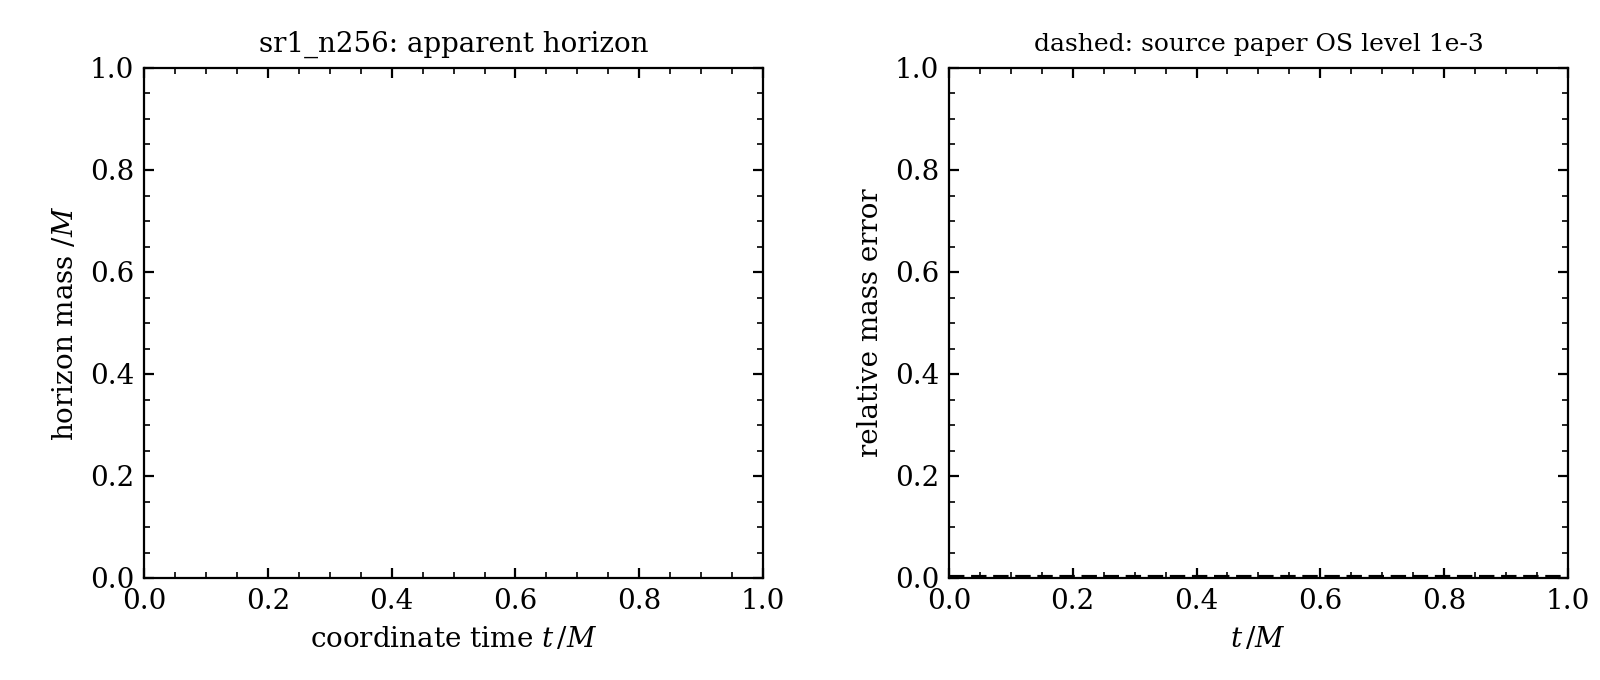
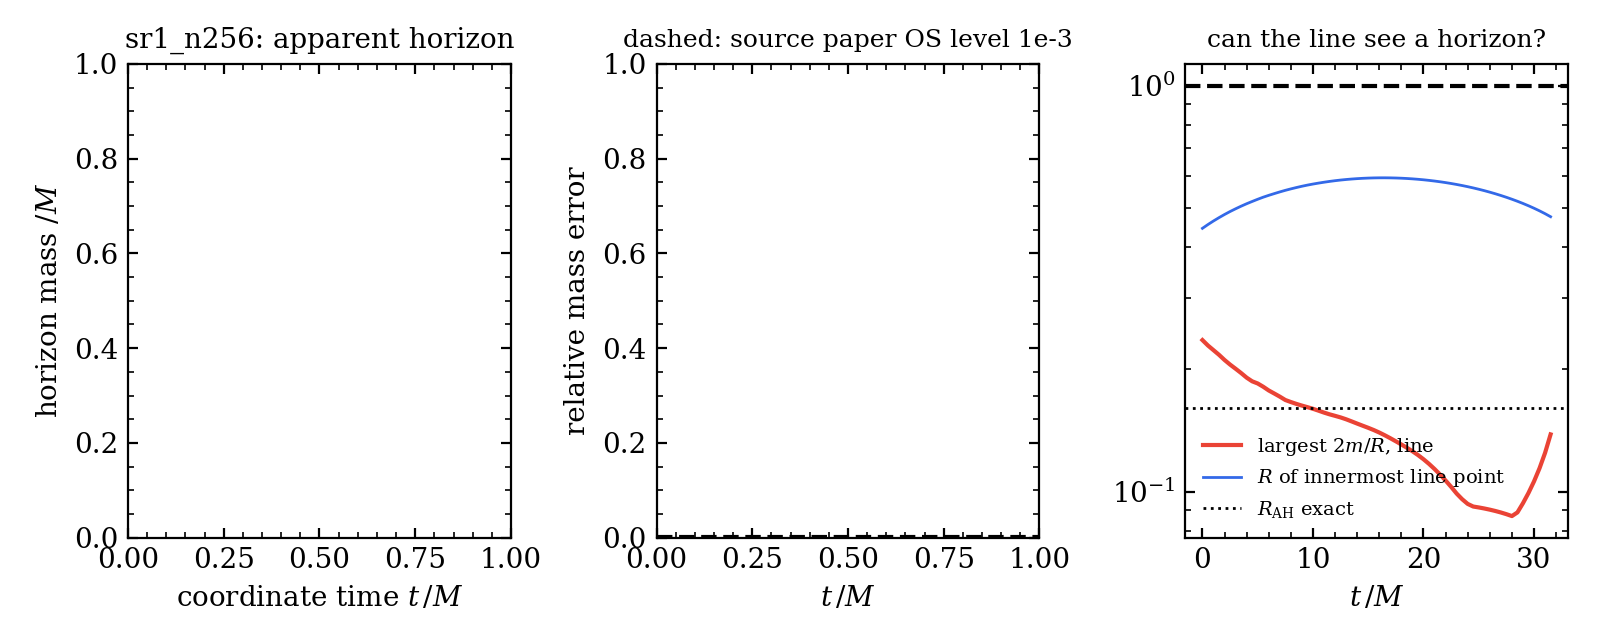
runs_ball: SR-1 unstable at t = 33 (core edge), SR-2 lapse pulse at t ~ 6 and no resolvable horizon at dx = M/2; turnaround within 0.3 per cent
Runs A-emd-pbh-20261115-153843-7172b66, -153845-7172b66, -155056-ec1b816;
analysis A-emd-pbh-20261115-163659-4dbacd0.

Claude-Session: https://claude.ai/code/session_01VD79cUYemmpt27M8dtYPfW

diff --git a/tracks/A-emd-pbh/runs_ball/prep.py b/tracks/A-emd-pbh/runs_ball/prep.py
@@ -54,12 +54,21 @@ def main():
     ap.add_argument("--per-shell", type=int, default=100)
     ap.add_argument("--sample", type=int, default=600)
     ap.add_argument("--seed", type=int, default=7)
+    ap.add_argument("--nlat", type=int, default=None,
+                    help="make a new mass-weighted lattice of n_lat sites across the matter diameter "
+                         "with expball.particles.lattice (76: h = M/4) instead of the n_lat = 38 file of 2t")
     a = ap.parse_args()
     os.makedirs(a.out, exist_ok=True)
     ball = C.ball2t()
 
     # ---------------------------------------------------------------- particles
-    x, u, m, sp = nio.read_nrp(C.LAT2T)
+    if a.nlat:
+        from expball import particles as XP
+        x, u, m, sp = XP.lattice(ball, a.nlat)
+        lat_tag = f"lat{a.nlat}"
+    else:
+        x, u, m, sp = nio.read_nrp(C.LAT2T)
+        lat_tag = "lat38"
     rbar = np.sqrt(np.sum(x * x, axis=1))
     Ri = ball.R_of_rbar(rbar)
     Ri = np.minimum(Ri, ball.R_out)
@@ -78,7 +87,7 @@ def main():
     rest = np.setdiff1d(np.arange(len(m)), track)
     order = np.concatenate([track, rest])
     xo, uo, mo, so = x[order], u[order], m[order], sp[order]
-    pfile = os.path.join(a.out, C.STEM2T + "_lat38_track.nrp")
+    pfile = os.path.join(a.out, C.STEM2T + f"_{lat_tag}_track.nrp")
     nio.write_nrp(pfile, xo, uo, mo, so)
     # check: same records
     x2, u2, m2, s2 = nio.read_nrp(pfile)

diff --git a/tracks/A-emd-pbh/runs_ball/JOURNAL.md b/tracks/A-emd-pbh/runs_ball/JOURNAL.md
@@ -149,3 +149,94 @@ Amendment of P7, written before any output of the card runs was read: P7 is judg
 drift m(t)/m(0) - 1 at fixed mesh points (SR-1) as well as on m/m_exact - 1, and the
 threshold 1e-2 applies at dx = M/2 only; at dx = M the t = 0 representation error alone
 exceeds it.
+
+## 2026-11-15, entry 3: outcomes of P (SR-1) and Q (SR-2) at dx = M/2 and M
+
+Runs (card, release core-v0.3, registered by hand with `runreg.py`): SR-1 dx = M/2
+A-emd-pbh-20261115-153843-7172b66 (0.104 card-hours); SR-2 dx = M/2
+A-emd-pbh-20261115-153845-7172b66 (0.149); SR-1 and SR-2 dx = M
+A-emd-pbh-20261115-155056-ec1b816 (0.028 together). Analysis run
+A-emd-pbh-20261115-163659-4dbacd0 (`compare.py`, `fields.py`; numbers in
+`<label>_numbers.json` of its output directory; figures copied to `figs/`, every one
+looked at). Two earlier analysis attempts failed on non-finite values and are on record
+(A-emd-pbh-20261115-162133-208f933, -162237-a614467); -162359-d32d331 and -163141-73eb185
+used the constraint columns shifted by one (corrected since; their numbers are not cited).
+Card time so far 0.28 of the 1 card-hour of the package.
+
+### SR-1 (lapse 1, shift 0 held fixed)
+
+- P1 REFUTED. The run becomes non-finite at t = 33.0 (dx = M/2; first cells with a
+  non-positive metric determinant at t = 32.875, within |x| <= 2.75 M) and at t = 30.3
+  (dx = M). Largest |H| on the mesh (cstat): 0.014, 0.042, 0.051, 0.48 at t = 2, 10, 20,
+  30 (dx = M/2); 0.014, 0.098, 0.24, 7.8 (dx = M). Where (`figs/sr1_n256_fields.png`,
+  `sr1_n128_fields.png`): at t = 16.9 a grid-aligned ring of H in the outer part of the
+  ball (r = 6-9 M, the compensating shell and the taper), at t = 30 a ring at the edge of
+  the homogeneous core (peak at x, y = -2.25, -0.75, r ~ 2.4 M), where the collapsing core
+  separates from the shells outside it and the comoving metric steepens. The growth is
+  faster on the coarser mesh, so this is a truncation-error instability of the comoving
+  coordinates, not the signature of an ill-posed system (that would grow faster on the
+  finer mesh) [JUDGEMENT from two resolutions]. The finder (from t = 44.2) and segments
+  2-3 were never reached: no horizon, no crunch; the restart segments were not run.
+  Gauge pathology figures: `figs/sr1_n256_gauge.png` (constraint statistics, H on the x
+  axis against t), `figs/sr1_n256_fields.png`.
+- P2 HOLDS while finite: |r/r_0 - 1| = 0 and |tau - t| < 1e-12 (printed by compare.py);
+  the lapse stays 1 to 4e-13.
+- P3 REFUTED at dx = M/2: core shells, largest |R/R_exact - 1| 1.8e-3 at tau = 8,
+  6.2e-3 at 16.9, 2.7e-2 at 30 (means 2.7e-4, 6.1e-4, -1.8e-3); the bound "below 2e-3 to
+  tau = 30" fails after tau ~ 8. The largest errors sit at the core edge (band
+  R_i = 2.4: mean -1.6e-2 at tau = 30).
+- P4 HOLDS on the mean at dx = M/2: core turnaround proper time 16.871 against 16.894
+  (mean error -0.022 M, -0.13 per cent; largest single particle 0.53 M, a parabola through
+  three records 0.25 M apart on a flat maximum), largest areal radius +0.07 per cent
+  (largest 0.6 per cent). Shells just outside the core: R_i = 2.4 band -0.26 M (-1.6 per
+  cent), 2.6 band -0.37 M (-2.2 per cent), R_i = 3.2 band +0.18 M (+1.0 per cent): the 1
+  per cent bound fails in the band where the instability later grows. At dx = M the core
+  turnaround is 2.50 M early (-14.8 per cent) and R_max -2.5 per cent: dx = M does not
+  resolve the 2.4 M core.
+- P5, P6, P7: not testable (no collapse before the instability). The Misner-Sharp mass on
+  the line drifts by more than 10 per cent by t = 17 at dx = M/2 (drift column of the
+  numbers file), dominated by the grid-scale constraint violation; P7 REFUTED.
+
+### SR-2 (conformal-time lapse, Gamma-driver)
+
+- Q1 HOLDS on the mean at dx = M/2: core turnaround 16.937 against 16.894 (+0.043 M,
+  +0.26 per cent), R_max +0.10 per cent; single particles up to 1.9 M off (flat maximum,
+  wiggles of the lapse pulse). dx = M: -0.82 M (-4.8 per cent).
+- Q2 REFUTED, and this is the main gauge finding: |alpha_c/a(tau_c) - 1| exceeds 1e-3 at
+  t = 4.5, 1e-2 at 5.1, 0.1 at 6.6 (dx = M/2); 2.75, 4.75, 6.5 at dx = M. A lapse pulse
+  reaches the centre from the edge of the homogeneous core, not from the taper (2.4-6 M
+  at ~0.6 c gives t ~ 4-10), and grows the central lapse to 1.85 at t ~ 12 (exact 1.34)
+  at both resolutions: a feature of the gauge, not of the mesh. Afterwards alpha_c stays
+  near 1.2 while the core collapses (exact a -> 0), so the core runs through its proper
+  time much faster than planned: the core's proper time reaches the crunch value 44.45
+  near t = 35 instead of t = 55 (`figs/sr2_n256_gauge.png`, top left).
+- Q3 HOLDS: core-shell |eps| before turnaround 2.0e-3 at tau = 12 (largest), 7.5e-3 at
+  16.9. Later it grows: 4.0e-2 at tau = 30, 0.10 at 40, 0.31 at 44.
+- Q4 REFUTED: no apparent horizon. The finder (from t = 46) found nothing, but the
+  decisive fact is the resolution: the collapsed core sits inside the innermost cells.
+  The largest 2m/R on the x axis (points beyond one cell from the axis) is 0.34, at
+  t = 35.75 (`figs/sr2_n256_horizon.png`, right), and the innermost line point (r = 0.43
+  coordinate) keeps R ~ 0.53-0.6 M throughout, while the first horizon has R = 0.161 M:
+  in these near-Eulerian coordinates the horizon would be smaller than one cell of
+  dx = M/2. The core's dust then passes through the centre and re-expands
+  (`figs/sr2_n256_shells.png`, left; the proper time at the centre reaches 61 M), which
+  a resolved collapse cannot do. Per particle, R(tau) falls through 2m (exact m) for 255
+  core particles 0.23 M late on average (dx = M/2; first tracked particle at 44.495
+  against 44.362 for its shell); 139 particles that should have been trapped never were.
+- Q5 HOLDS: t = 53 reached, no non-finite values; largest |H| 0.077 at t = 44.
+- Energy density at t = 30 shows a grid-aligned clumping of the envelope dust
+  (`figs/sr2_n256_fields.png`, third row): the Gamma-driver moves the coordinates, the
+  lattice no longer matches the cells, and the cubic cloud aliases [JUDGEMENT, not
+  tested].
+
+### Common
+
+- C1 HOLDS: 354.8 s for 336 steps of 256^3 (SR-1) = 6.3e-8 card-s per cell-step; SR-2
+  7.2e-8; within a factor 2 of 8.1e-8.
+- C2 REFUTED on the high side: between dx = M and M/2 the largest core |eps| at
+  tau = 16.9 falls by 9 (SR-1) and 2.8 (SR-2), the mean by 53 (SR-1); the turnaround-time
+  error by 110 (SR-1) and 19 (SR-2). dx = M (2.4 cells across the core) is not in the
+  asymptotic range; an order needs dx = M/4 (entry 4).
+- Horizon-formation time and horizon-mass error against the source paper's 1e-3
+  (main.tex:945, 1484): NOT MEASURED in any of the four runs (SR-1 unstable before the
+  collapse, SR-2 cannot resolve a 0.16 M horizon at dx = M/2 in its coordinates).
